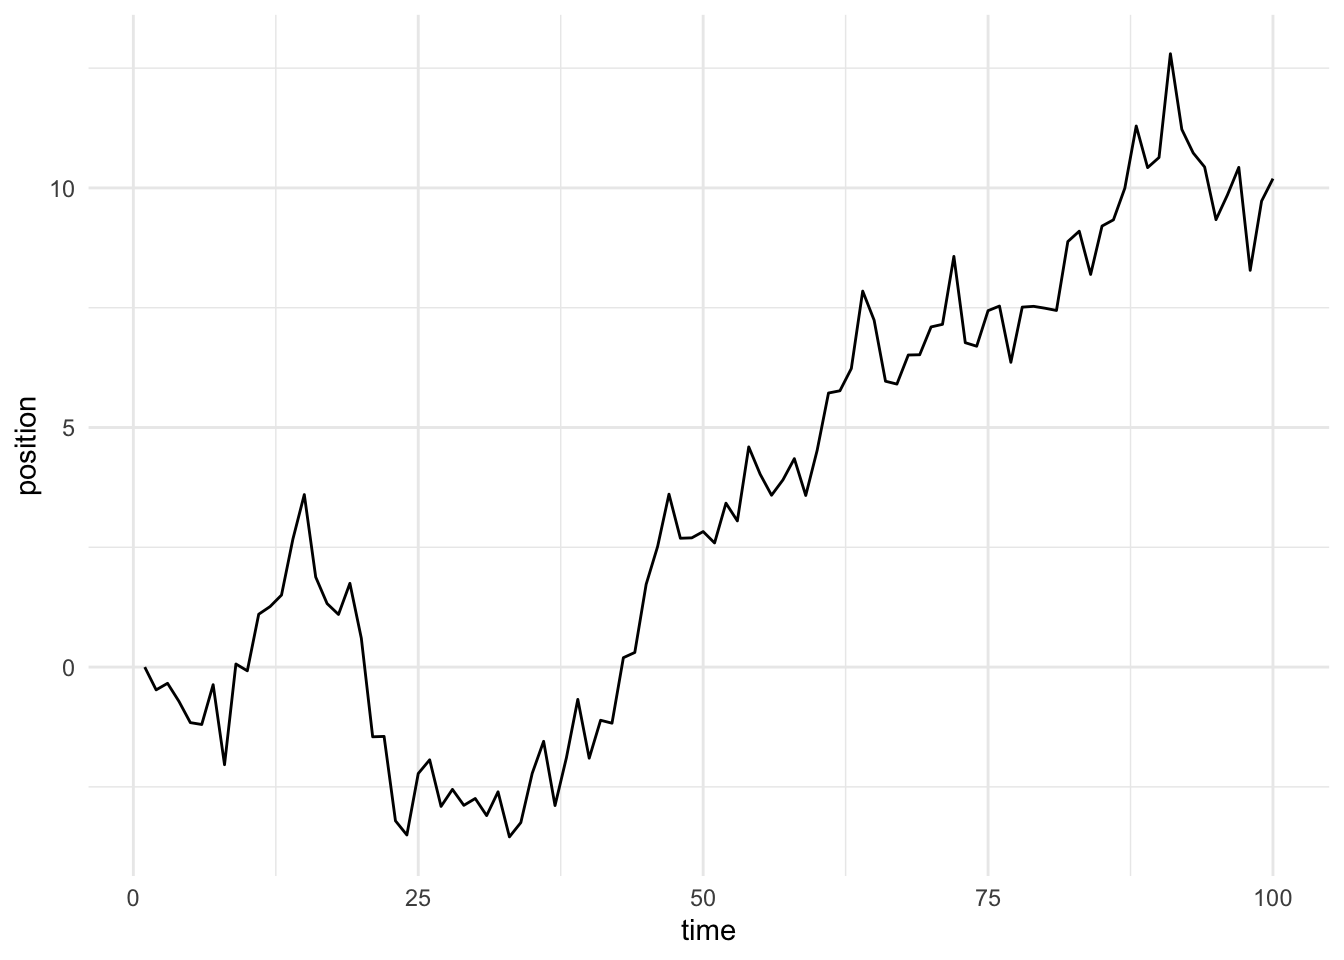
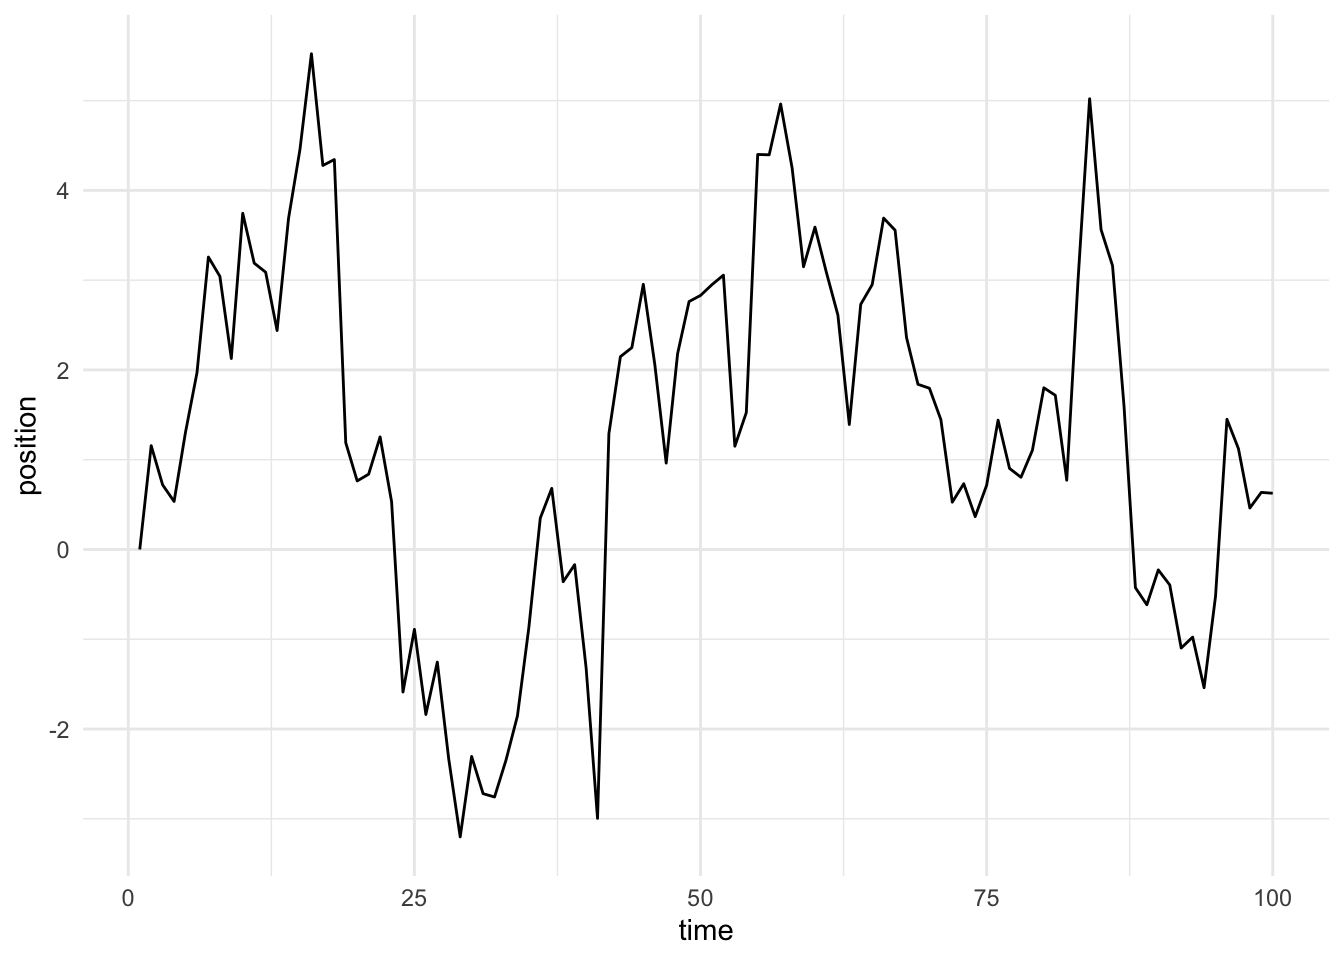
fix list

diff --git a/docs/post/2021-01-09-a-gentle-introduction-to-markov-chains-and-mcmc/index.html b/docs/post/2021-01-09-a-gentle-introduction-to-markov-chains-and-mcmc/index.html
@@ -49,7 +49,7 @@
 <meta itemprop="description" content="Introduction Every other friday at work, we have a meeting called All Hands, during the first half of which a member of the team gives a presentation. The presentation is split up into two pieces: A personal presentation – your favorite food, TV shows, books, etc. – and a mini-lesson, which can be about any topic of interest that’s unrelated to work. Yesterday it was my turn, and I gave my mini-lesson on Markov Chains and Markov Chain Monte Carlo.">
 <meta itemprop="datePublished" content="2021-01-09T00:00:00+00:00" />
 <meta itemprop="dateModified" content="2021-01-09T15:20:59-05:00" />
-<meta itemprop="wordCount" content="1873">
+<meta itemprop="wordCount" content="1885">
 
 
 
@@ -170,16 +170,16 @@ randomly_walk &lt;- function(.ix = c(), n_steps = 100) {
 <pre><code>## # A tibble: 100 x 1
 ##    position
 ##       &lt;dbl&gt;
-##  1   0     
-##  2  -0.476 
-##  3  -0.339 
-##  4  -0.715 
-##  5  -1.16  
-##  6  -1.20  
-##  7  -0.368 
-##  8  -2.04  
-##  9   0.0643
-## 10  -0.0779
+##  1    0    
+##  2    1.16 
+##  3    0.719
+##  4    0.535
+##  5    1.31 
+##  6    1.97 
+##  7    3.26 
+##  8    3.04 
+##  9    2.13 
+## 10    3.74 
 ## # … with 90 more rows</code></pre>
 <p>That table shows a random walk with 100 steps, generated by adding standard normal noise to the position after each step. Let’s plot it and see what it looks like.</p>
 <pre class="r"><code>random_walk %&gt;%
@@ -244,7 +244,8 @@ twenty_walks %&gt;%
 <ol style="list-style-type: decimal">
 <li>Pick a random island to start on.</li>
 <li>On each day, randomly select a new island to go to (the <strong>proposal island</strong>).</li>
-<li><ol style="list-style-type: lower-roman">
+<li>Do one of the following, depending on the populations of the islands:
+<ol style="list-style-type: lower-roman">
 <li>If the proposal island has more people than the current island, go to the proposal island.</li>
 <li>If it has fewer people, then flip a coin with probability equal to the proposal island’s population divided by the current island’s. If the coin comes up heads, go to the proposal island.</li>
 </ol></li>
@@ -261,8 +262,8 @@ twenty_walks %&gt;%
 ##    &lt;dbl&gt;      &lt;int&gt;          &lt;dbl&gt;
 ## 1      1          1         0.0909
 ## 2      2          3         0.273 
-## 3      3          4         0.364 
-## 4      4          3         0.273</code></pre>
+## 3      3          1         0.0909
+## 4      4          6         0.545</code></pre>
 <p>Unsurprisingly, with only <span class="math inline">\(10\)</span> iterations the algorithm does not perform particularly well. But what about if we give it a lot more time? Let’s try <span class="math inline">\(10,000\)</span> iterations.</p>
 <pre class="r"><code>some_islands &lt;- run_rwmh(n_iters = 10000) %&gt;%
   tibble(island = .) %&gt;%
@@ -277,11 +278,11 @@ some_islands</code></pre>
 <pre><code>## # A tibble: 4 x 4
 ##   island days_spent day_proportion error_margin
 ##    &lt;dbl&gt;      &lt;int&gt;          &lt;dbl&gt;        &lt;dbl&gt;
-## 1      1       1017          0.102     0.00169 
-## 2      2       2003          0.200     0.000280
-## 3      3       2979          0.298    -0.00213 
-## 4      4       4002          0.400     0.000160</code></pre>
-<p>Much better! After <span class="math inline">\(10,000\)</span> iterations, we’re spending almost the exact proportion of time on each island that we want to be, as evidenced by the tiny error margins. In addition, the standard deviation of the error margins is 0.00158, which is tiny. That’s awesome! But what about if the system is more complex? Like, what if we had 100 islands?</p>
+## 1      1       1029          0.103      0.00289
+## 2      2       2033          0.203      0.00328
+## 3      3       3042          0.304      0.00417
+## 4      4       3897          0.390     -0.0103</code></pre>
+<p>Much better! After <span class="math inline">\(10,000\)</span> iterations, we’re spending almost the exact proportion of time on each island that we want to be, as evidenced by the tiny error margins. In addition, the standard deviation of the error margins is 0.00691, which is tiny. That’s awesome! But what about if the system is more complex? Like, what if we had 100 islands?</p>
 <pre class="r"><code>more_islands &lt;- run_rwmh(n_iters = 10000, island_populations = 1:100) %&gt;%
   tibble(island = .) %&gt;%
   group_by(island) %&gt;%
@@ -292,21 +293,21 @@ some_islands</code></pre>
 mean_error_margin &lt;- mean(more_islands$error_margin)
 sd_error_margin &lt;- sd(more_islands$error_margin)
 more_islands</code></pre>
-<pre><code>## # A tibble: 99 x 4
+<pre><code>## # A tibble: 100 x 4
 ##    island days_spent day_proportion error_margin
 ##     &lt;dbl&gt;      &lt;int&gt;          &lt;dbl&gt;        &lt;dbl&gt;
-##  1      1          2       0.000200   0.00000184
-##  2      2          6       0.000600   0.000204  
-##  3      4          6       0.000600  -0.000193  
-##  4      5          7       0.000700  -0.000291  
-##  5      6          8       0.000800  -0.000389  
-##  6      7         19       0.00190    0.000513  
-##  7      8         15       0.00150   -0.0000853 
-##  8      9         15       0.00150   -0.000283  
-##  9     10         17       0.00170   -0.000282  
-## 10     11         22       0.00220    0.0000203 
-## # … with 89 more rows</code></pre>
-<p>No problem! Even with the extra islands, the mean error margin is still zero, and the standard deviation of the error margins is 0.00143, which is miniscule. It’s true that a more complex system (i.e. more islands) would mean that we need more iterations to converge in probability to the proportions we’re shooting for, but the algorithm will still work with enough time.</p>
+##  1      1          3       0.000300   0.000102  
+##  2      2          3       0.000300  -0.0000961 
+##  3      3          3       0.000300  -0.000294  
+##  4      4          8       0.000800   0.00000784
+##  5      5         10       0.00100    0.00000980
+##  6      6         15       0.00150    0.000312  
+##  7      7          6       0.000600  -0.000786  
+##  8      8          9       0.000900  -0.000684  
+##  9      9         22       0.00220    0.000418  
+## 10     10         24       0.00240    0.000420  
+## # … with 90 more rows</code></pre>
+<p>No problem! Even with the extra islands, the mean error margin is still zero, and the standard deviation of the error margins is 0.0012, which is miniscule. It’s true that a more complex system (i.e. more islands) would mean that we need more iterations to converge in probability to the proportions we’re shooting for, but the algorithm will still work with enough time.</p>
 <p>This algorithm is called the Metropolis-Hastings Algorithm, and it’s one of many in the class of Markov Chain Monte Carlo algorithms. Some others are the Gibbs Sampler and Hamiltonian Monte Carlo, both of which are frequently used in Bayesian statistics for estimating the parameters of regression models with hundreds of thousands of parameters. In short, these algorithms allow us to solve problems that were literally impossible to solve only two decades ago or so, which is an amazing feat!</p>
 </div>
 <div id="recap" class="section level2">

diff --git a/content/post/2021-01-09-a-gentle-introduction-to-markov-chains-and-mcmc/index.html b/content/post/2021-01-09-a-gentle-introduction-to-markov-chains-and-mcmc/index.html
@@ -69,16 +69,16 @@ randomly_walk &lt;- function(.ix = c(), n_steps = 100) {
 <pre><code>## # A tibble: 100 x 1
 ##    position
 ##       &lt;dbl&gt;
-##  1   0     
-##  2  -0.476 
-##  3  -0.339 
-##  4  -0.715 
-##  5  -1.16  
-##  6  -1.20  
-##  7  -0.368 
-##  8  -2.04  
-##  9   0.0643
-## 10  -0.0779
+##  1    0    
+##  2    1.16 
+##  3    0.719
+##  4    0.535
+##  5    1.31 
+##  6    1.97 
+##  7    3.26 
+##  8    3.04 
+##  9    2.13 
+## 10    3.74 
 ## # … with 90 more rows</code></pre>
 <p>That table shows a random walk with 100 steps, generated by adding standard normal noise to the position after each step. Let’s plot it and see what it looks like.</p>
 <pre class="r"><code>random_walk %&gt;%
@@ -143,7 +143,8 @@ twenty_walks %&gt;%
 <ol style="list-style-type: decimal">
 <li>Pick a random island to start on.</li>
 <li>On each day, randomly select a new island to go to (the <strong>proposal island</strong>).</li>
-<li><ol style="list-style-type: lower-roman">
+<li>Do one of the following, depending on the populations of the islands:
+<ol style="list-style-type: lower-roman">
 <li>If the proposal island has more people than the current island, go to the proposal island.</li>
 <li>If it has fewer people, then flip a coin with probability equal to the proposal island’s population divided by the current island’s. If the coin comes up heads, go to the proposal island.</li>
 </ol></li>
@@ -160,8 +161,8 @@ twenty_walks %&gt;%
 ##    &lt;dbl&gt;      &lt;int&gt;          &lt;dbl&gt;
 ## 1      1          1         0.0909
 ## 2      2          3         0.273 
-## 3      3          4         0.364 
-## 4      4          3         0.273</code></pre>
+## 3      3          1         0.0909
+## 4      4          6         0.545</code></pre>
 <p>Unsurprisingly, with only <span class="math inline">\(10\)</span> iterations the algorithm does not perform particularly well. But what about if we give it a lot more time? Let’s try <span class="math inline">\(10,000\)</span> iterations.</p>
 <pre class="r"><code>some_islands &lt;- run_rwmh(n_iters = 10000) %&gt;%
   tibble(island = .) %&gt;%
@@ -176,11 +177,11 @@ some_islands</code></pre>
 <pre><code>## # A tibble: 4 x 4
 ##   island days_spent day_proportion error_margin
 ##    &lt;dbl&gt;      &lt;int&gt;          &lt;dbl&gt;        &lt;dbl&gt;
-## 1      1       1017          0.102     0.00169 
-## 2      2       2003          0.200     0.000280
-## 3      3       2979          0.298    -0.00213 
-## 4      4       4002          0.400     0.000160</code></pre>
-<p>Much better! After <span class="math inline">\(10,000\)</span> iterations, we’re spending almost the exact proportion of time on each island that we want to be, as evidenced by the tiny error margins. In addition, the standard deviation of the error margins is 0.00158, which is tiny. That’s awesome! But what about if the system is more complex? Like, what if we had 100 islands?</p>
+## 1      1       1029          0.103      0.00289
+## 2      2       2033          0.203      0.00328
+## 3      3       3042          0.304      0.00417
+## 4      4       3897          0.390     -0.0103</code></pre>
+<p>Much better! After <span class="math inline">\(10,000\)</span> iterations, we’re spending almost the exact proportion of time on each island that we want to be, as evidenced by the tiny error margins. In addition, the standard deviation of the error margins is 0.00691, which is tiny. That’s awesome! But what about if the system is more complex? Like, what if we had 100 islands?</p>
 <pre class="r"><code>more_islands &lt;- run_rwmh(n_iters = 10000, island_populations = 1:100) %&gt;%
   tibble(island = .) %&gt;%
   group_by(island) %&gt;%
@@ -191,21 +192,21 @@ some_islands</code></pre>
 mean_error_margin &lt;- mean(more_islands$error_margin)
 sd_error_margin &lt;- sd(more_islands$error_margin)
 more_islands</code></pre>
-<pre><code>## # A tibble: 99 x 4
+<pre><code>## # A tibble: 100 x 4
 ##    island days_spent day_proportion error_margin
 ##     &lt;dbl&gt;      &lt;int&gt;          &lt;dbl&gt;        &lt;dbl&gt;
-##  1      1          2       0.000200   0.00000184
-##  2      2          6       0.000600   0.000204  
-##  3      4          6       0.000600  -0.000193  
-##  4      5          7       0.000700  -0.000291  
-##  5      6          8       0.000800  -0.000389  
-##  6      7         19       0.00190    0.000513  
-##  7      8         15       0.00150   -0.0000853 
-##  8      9         15       0.00150   -0.000283  
-##  9     10         17       0.00170   -0.000282  
-## 10     11         22       0.00220    0.0000203 
-## # … with 89 more rows</code></pre>
-<p>No problem! Even with the extra islands, the mean error margin is still zero, and the standard deviation of the error margins is 0.00143, which is miniscule. It’s true that a more complex system (i.e. more islands) would mean that we need more iterations to converge in probability to the proportions we’re shooting for, but the algorithm will still work with enough time.</p>
+##  1      1          3       0.000300   0.000102  
+##  2      2          3       0.000300  -0.0000961 
+##  3      3          3       0.000300  -0.000294  
+##  4      4          8       0.000800   0.00000784
+##  5      5         10       0.00100    0.00000980
+##  6      6         15       0.00150    0.000312  
+##  7      7          6       0.000600  -0.000786  
+##  8      8          9       0.000900  -0.000684  
+##  9      9         22       0.00220    0.000418  
+## 10     10         24       0.00240    0.000420  
+## # … with 90 more rows</code></pre>
+<p>No problem! Even with the extra islands, the mean error margin is still zero, and the standard deviation of the error margins is 0.0012, which is miniscule. It’s true that a more complex system (i.e. more islands) would mean that we need more iterations to converge in probability to the proportions we’re shooting for, but the algorithm will still work with enough time.</p>
 <p>This algorithm is called the Metropolis-Hastings Algorithm, and it’s one of many in the class of Markov Chain Monte Carlo algorithms. Some others are the Gibbs Sampler and Hamiltonian Monte Carlo, both of which are frequently used in Bayesian statistics for estimating the parameters of regression models with hundreds of thousands of parameters. In short, these algorithms allow us to solve problems that were literally impossible to solve only two decades ago or so, which is an amazing feat!</p>
 </div>
 <div id="recap" class="section level2">
